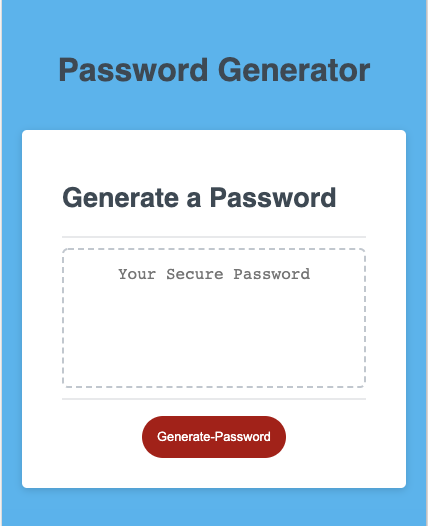
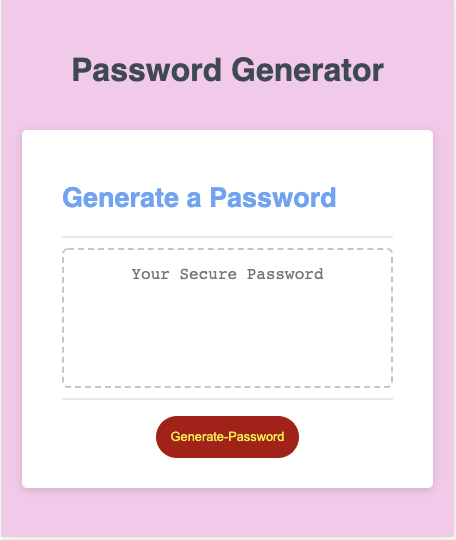
updated picture

diff --git a/Develop /style.css b/Develop /style.css
@@ -6,6 +6,7 @@
   box-sizing: border-box;
 }
 
+
 html,
 body,
 .wrapper {
@@ -125,8 +126,13 @@ button[disabled] {
     font-size: 1rem;
     margin: 16px 0px 0px 0px;
     padding: 10px 15px;
+    color: rgb(241, 238, 3);
   }
-
+  @media (max-width: 690px) {
+    .card {
+      color: rgb(100, 163, 247);
+    }
+    
   #password {
     font-size: 1rem;
   }
@@ -135,5 +141,6 @@ button[disabled] {
 @media (max-width: 500px) {
   .btn {
     font-size: 0.8rem;
+  
   }
 }

diff --git a/README.md b/README.md
@@ -10,7 +10,7 @@ The following image shows the web application's appearance and functionality:
 
 <img src= "images/passgen.jpg" alt= "webpage view" width= "400" height="200">
 <p>
-<img src = "images/passgen2.jpg" alt= "small screen view" width= "100" height="150"> 
+<img src = "images/passgen2.jpg" alt= "small screen view" width= "100" height="150" > 
 
 
 
